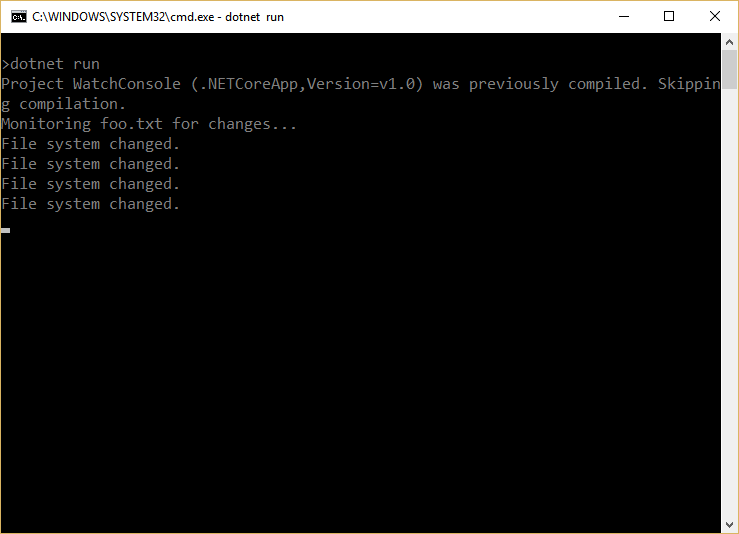
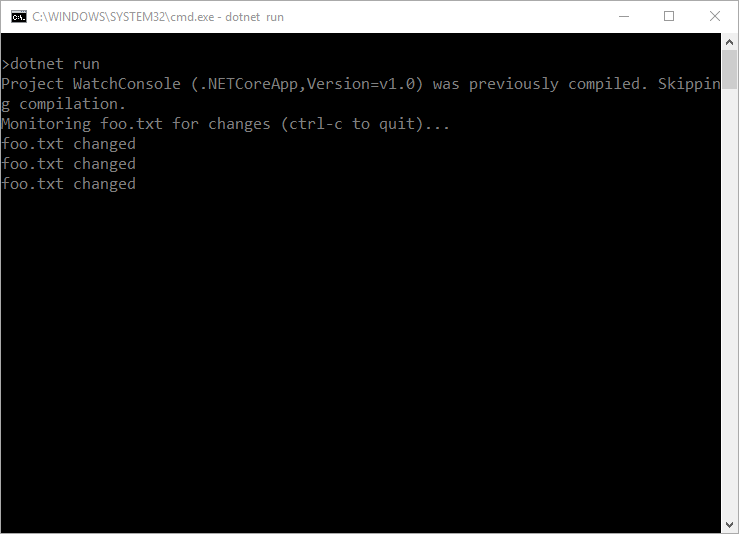
Updated sample - ready for UE review

diff --git a/aspnet/fundamentals/file-providers/sample/src/WatchConsole/Program.cs b/aspnet/fundamentals/file-providers/sample/src/WatchConsole/Program.cs
@@ -1,5 +1,6 @@
 using System;
 using System.IO;
+using System.Threading.Tasks;
 using Microsoft.Extensions.FileProviders;
 using Microsoft.Extensions.Primitives;
 
@@ -7,27 +8,25 @@ namespace WatchConsole
 {
     public class Program
     {
-        private IChangeToken token;
-        public static PhysicalFileProvider PhysicalFileProvider = new PhysicalFileProvider(Directory.GetCurrentDirectory());
+        private static PhysicalFileProvider _fileProvider = 
+            new PhysicalFileProvider(Directory.GetCurrentDirectory());
         public static void Main(string[] args)
         {
-            RegisterCallback(PhysicalFileProvider.Watch("foo.txt"));
-
-            Console.WriteLine("Monitoring foo.txt for changes...");
-
-            Console.ReadLine();
+            Console.WriteLine("Monitoring foo.txt for changes (ctrl-c to quit)...");
+            while (true)
+            {
+                MainAsync().GetAwaiter().GetResult();
+            }
         }
 
-        public static void RegisterCallback(IChangeToken token)
+        private static async Task MainAsync()
         {
-            token.RegisterChangeCallback(state =>
-            {
-                Console.WriteLine("File system changed.");
-
-                // re-register a new token so we continue to get notifications
-                RegisterCallback(PhysicalFileProvider.Watch("foo.txt"));
-
-            }, state: null);
+            IChangeToken token = _fileProvider.Watch("foo.txt");
+            var tcs = new TaskCompletionSource<object>();
+            token.RegisterChangeCallback(state => 
+                ((TaskCompletionSource<object>)state).TrySetResult(null), tcs);
+            await tcs.Task.ConfigureAwait(false);
+            Console.WriteLine("foo.txt changed");
         }
     }
 }

diff --git a/aspnet/fundamentals/file-providers/sample/src/FileProviderSample/Controllers/HomeController.cs b/aspnet/fundamentals/file-providers/sample/src/FileProviderSample/Controllers/HomeController.cs
@@ -1,5 +1,4 @@
-using System;
-using Microsoft.AspNetCore.Mvc;
+using Microsoft.AspNetCore.Mvc;
 using Microsoft.Extensions.FileProviders;
 
 namespace FileProviderSample.Controllers
@@ -7,7 +6,6 @@ namespace FileProviderSample.Controllers
     public class HomeController : Controller
     {
         private readonly IFileProvider _fileProvider;
-        private static string _dateFileLastChanged = "Never";
 
         public HomeController(IFileProvider fileProvider)
         {

diff --git a/aspnet/fundamentals/file-providers.rst b/aspnet/fundamentals/file-providers.rst
@@ -106,12 +106,12 @@ Updating the sample app to use a ``CompositeFileProvider`` that includes both th
 Watching for changes
 --------------------
 
-The ``IFileProvider`` ``Watch`` method provides a way to watch one or more files or directories for changes. This method accepts a path string, which can use `globbing patterns`_ to specify multiple files, and returns an ``IChangeToken``. This token exposes a ``HasChanged`` property that can be inspected, and a ``RegisterChangeCallback`` method that is called when changes are detected to the specified path string. Note that each change token only calls its associated callback in response to a single change. To enable constant monitoring, you will need to recreate change tokens as changes occur.
+The ``IFileProvider`` ``Watch`` method provides a way to watch one or more files or directories for changes. This method accepts a path string, which can use `globbing patterns`_ to specify multiple files, and returns an ``IChangeToken``. This token exposes a ``HasChanged`` property that can be inspected, and a ``RegisterChangeCallback`` method that is called when changes are detected to the specified path string. Note that each change token only calls its associated callback in response to a single change. To enable constant monitoring, you can use a ``TaskCompletionSource`` as shown below, or re-create ``IChangeToken`` instances in response to changes.
 
 In this article's sample, a console application is configured to display a message whenever a text file is modified:
 
 .. literalinclude:: file-providers/sample/src/WatchConsole/Program.cs
-  :emphasize-lines: 11,14,23-30
+  :emphasize-lines: 11-12,24,26-27
 
 The result, after saving the file several times:
 
